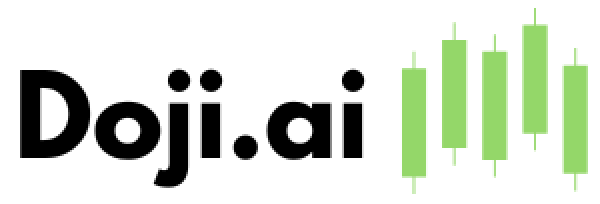
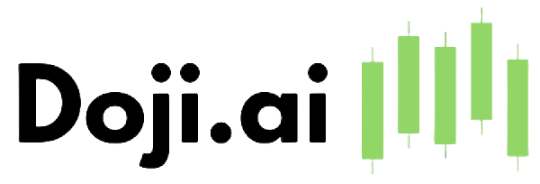
added slider for landing page

diff --git a/app/components/Introduction.tsx b/app/components/Introduction.tsx
@@ -1,27 +1,44 @@
+"use client"
 import React from 'react'
+import { useState } from 'react';
+
+import Carousel from './Carousel';
 
 const Introduction = () => {
-  return (
-    <div className= 'w-full h-96 pt-28'>
+    const slides = [
+      "/images/dojiiintro.png",
+      "/images/page2.jpeg",
+      "/images/stock-placeholder.jpeg",
+    ];
+    const [activeSlide, setActiveSlide] = useState(0);
+  
+    const textContent = [
+      "Dojii utilizes AI and ML for a new and improved way to predict stock prices",
+      "Slide 2 text goes here",
+      "Slide 3 text goes here",
+    ];
+  
+    return (
+      <div className='w-full h-96 pt-28'>
         <div className=" bg-[url('/images/introbackground.png')] grid grid-cols-2 gap-4 h-[600px]">
-            <div className="col-span-1 w-full h-full">
-                <p className='text-4xl font-semibold pl-44 pt-10'>
-                Dojii utilizes AI and ML for a new and improved way to predict stock prices
-                </p>
-                <p className='pl-44 pt-6 font-mono text-xl'>
-                    There is so much data out there, too much for humans to grasp and much less use to predict stock prices. That’s where Dojii.ai comes in. Our machine learning algorithm takes thousands of data points and looks for patterns beyond traditional economic indicators to make more accurate stock predictions.
-                </p>
-                
+          <div className="col-span-1 w-full h-full">
+            <p className='text-4xl font-semibold pl-44 pt-10'>
+              {textContent[activeSlide]}
+            </p>
+            <p className='pl-44 pt-6 font-mono text-xl'>
+              {textContent[activeSlide]}
+            </p>
+          </div>
+  
+          <div className="col-span-1 h-full">
+            <div className='flex justify-center items-center'>
+              <Carousel slides={slides} setActiveSlide={setActiveSlide} />
             </div>
-
-            <div className="col-span-1 h-full">
-                <div className='flex justify-center items-center'>
-                    <img src="/images/dojiiintro.png" alt="Image 1" className=' w-[700px] h-[520px]'/>
-                </div>
-            </div>
+          </div>
         </div>
-    </div>
-  )
-}
+      </div>
+    )
+  }
+  
 
 export default Introduction

diff --git a/app/components/Carousel.tsx b/app/components/Carousel.tsx
@@ -1,0 +1,75 @@
+import { useState, useEffect } from "react";
+import { ChevronLeft, ChevronRight } from "react-feather";
+
+interface CarouselProps {
+  autoSlide?: boolean;
+  autoSlideInterval?: number;
+  slides: string[];
+  setActiveSlide: React.Dispatch<React.SetStateAction<number>>;
+}
+
+const Carousel: React.FC<CarouselProps> = ({
+  autoSlide = false,
+  autoSlideInterval = 3000,
+  slides,
+  setActiveSlide,
+}) => {
+  const [curr, setCurr] = useState(0);
+
+  const prev = () =>
+    setCurr((curr) => (curr === 0 ? slides.length - 1 : curr - 1));
+  const next = () =>
+    setCurr((curr) => (curr === slides.length - 1 ? 0 : curr + 1));
+
+    useEffect(() => {
+        setActiveSlide(curr);
+      }, [curr, setActiveSlide]);
+
+  useEffect(() => {
+    if (!autoSlide) return;
+    const slideInterval = setInterval(next, autoSlideInterval);
+    return () => clearInterval(slideInterval);
+  }, [autoSlide, autoSlideInterval, next]);
+
+  return (
+    <div className="overflow-hidden relative">
+      <div
+        className="flex transition-transform ease-out duration-500"
+        style={{ transform: `translateX(-${curr * 100}%)` }}
+      >
+        {slides.map((img, index) => (
+          <img key={index} src={img} alt={`slide-${index}`} />
+        ))}
+      </div>
+      <div className="absolute inset-0 flex items-center justify-between p-4">
+        <button
+          onClick={prev}
+          className="p-1 rounded-full shadow bg-white/80 text-gray-800 hover:bg-white"
+        >
+          <ChevronLeft size={40} />
+        </button>
+        <button
+          onClick={next}
+          className="p-1 rounded-full shadow bg-white/80 text-gray-800 hover:bg-white"
+        >
+          <ChevronRight size={40} />
+        </button>
+      </div>
+
+      <div className="absolute bottom-4 right-0 left-0">
+        <div className="flex items-center justify-center gap-2">
+          {slides.map((_, i) => (
+            <div
+              key={i}
+              className={`transition-all w-3 h-3 bg-white rounded-full ${
+                curr === i ? "p-2" : "bg-opacity-50"
+              }`}
+            />
+          ))}
+        </div>
+      </div>
+    </div>
+  );
+};
+
+export default Carousel;

diff --git a/app/components/Navbar.tsx b/app/components/Navbar.tsx
@@ -1,6 +1,6 @@
 "use client"
 
-import Link from 'next/link'
+import Link from 'next/link';
 import React, { useState, useEffect } from 'react';
 import Image from 'next/image';
 
@@ -26,28 +26,24 @@ const Navbar = () => {
   }, []);
 
   return (
-
-
-    <div className={`container mx-auto flex justify-between items-center fixed top-0 left-0 right-0 bg-${bgColor}-500`}>
-      <a href='/'>
-        <Image
-          className='py-5'
-          src="/images/doji.png"
-          alt="Example Image"
-          width={200}
-          height={30}
-        />
+    <div className={`flex justify-between items-center fixed top-0 left-0 right-0 ${bgColor === 'blue' ? 'bg-blue-500' : 'bg-transparent'}`}>
+      <a href='/' className='py-5 pl-20'>
+        <Image src='/images/doji.png' alt='Example Image' width={200} height={30} />
       </a>
-      <ul className="flex space-x-4">
+      <ul className='flex space-x-4 pr-16'>
         <li>
-          <a href="/about" className="hover:text-gray-600">About</a>
+          <a href='/about' className= 'hover:text-gray-600'>
+            About
+          </a>
         </li>
         <li>
-          <a href="/contact" className="hover:text-gray-600">Contact</a>
+          <a href='/contact' className='hover:text-gray-600'>
+            Contact
+          </a>
         </li>
       </ul>
     </div>
-  )
-}
+  );
+};
 
-export default Navbar
+export default Navbar;
